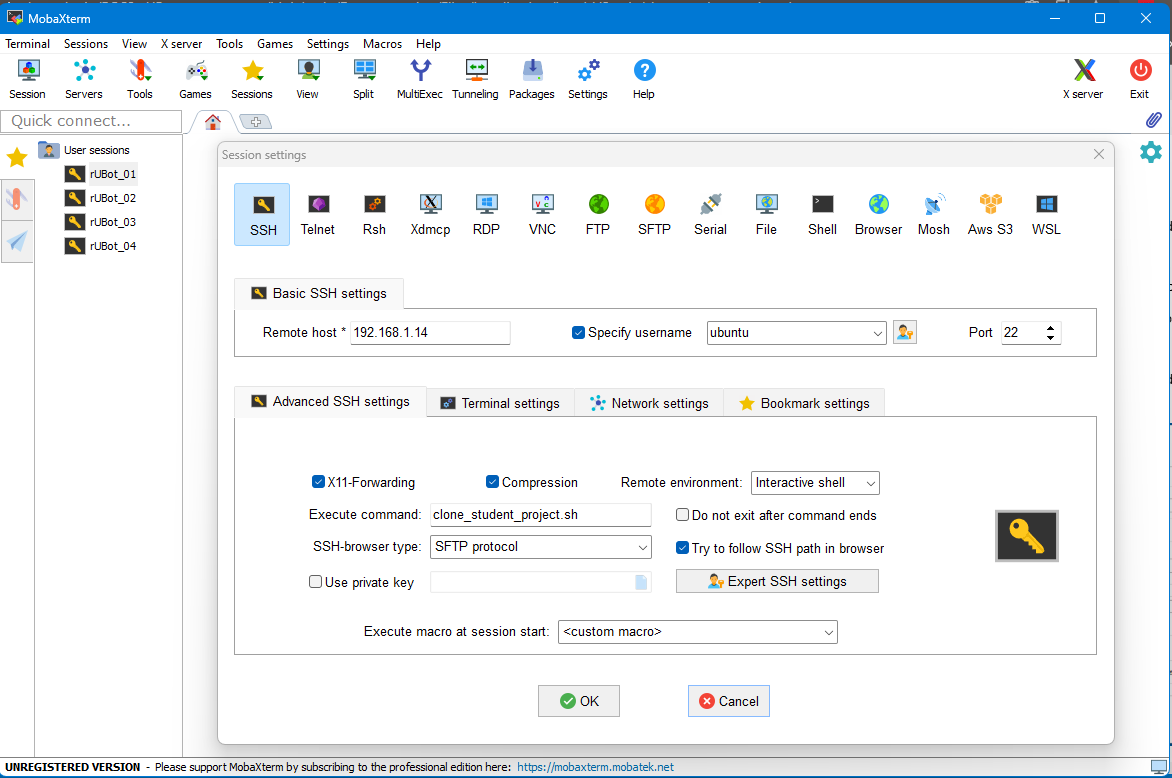
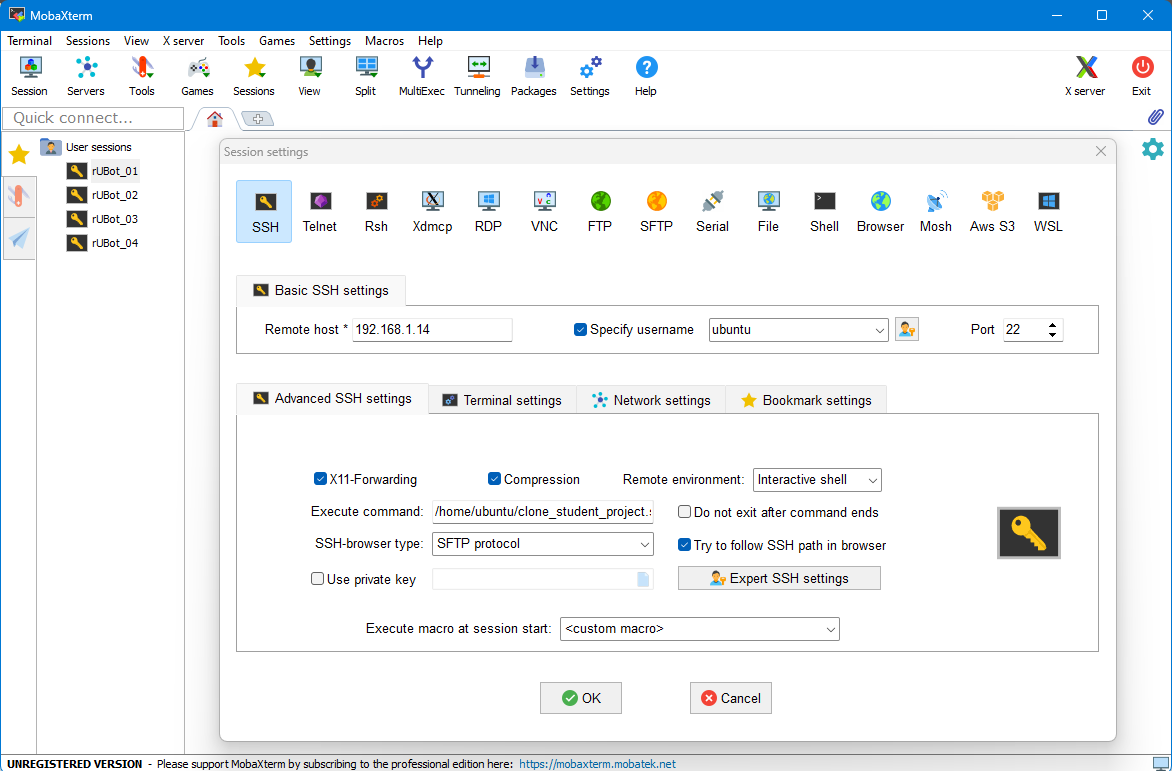
bringup mobaxterm

diff --git a/Documentation/01_rUBot_setup.md b/Documentation/01_rUBot_setup.md
@@ -93,9 +93,12 @@ The UB custom rUBot mecanum custom made robot is based on:
 
 When the real robot is plugged on, you will access to the robot using MOBAXterm:
 - Open rUBot_0x session and specify the `Director`student project (4minutes aprox)
-
   ![](./Images/01_Setup/MobaXterm.png)
-  >This script will make the project clone, compilation, .bashrc configuration and robot bringup
+  >This script will make the project clone, compilation and .bashrc configuration
+- Execute the bringup:
+  ```bash
+  ros2 launch my_robot_bringup my_robot_nano_bringup_hw.launch.py
+  ```
 - Verify in a new terminal the working nodes:
   ````shell
   ros2 node list

diff --git a/Documentation/Files/Install_robot/Local_MobaXterm/Instructions_clone_student_project_MobaXterm.md b/Documentation/Files/Install_robot/Local_MobaXterm/Instructions_clone_student_project_MobaXterm.md
@@ -19,6 +19,10 @@ Execute the script (40min approx):
 
 Students have to:
 - Open rUBot_0x session and specify the `Director`student project (4minutes aprox)
+- Execute the bringup:
+  ```bash
+  ros2 launch my_robot_bringup my_robot_nano_bringup_hw.launch.py
+  ```
 
 # ✅ Verify the installation
 You proceed with:
